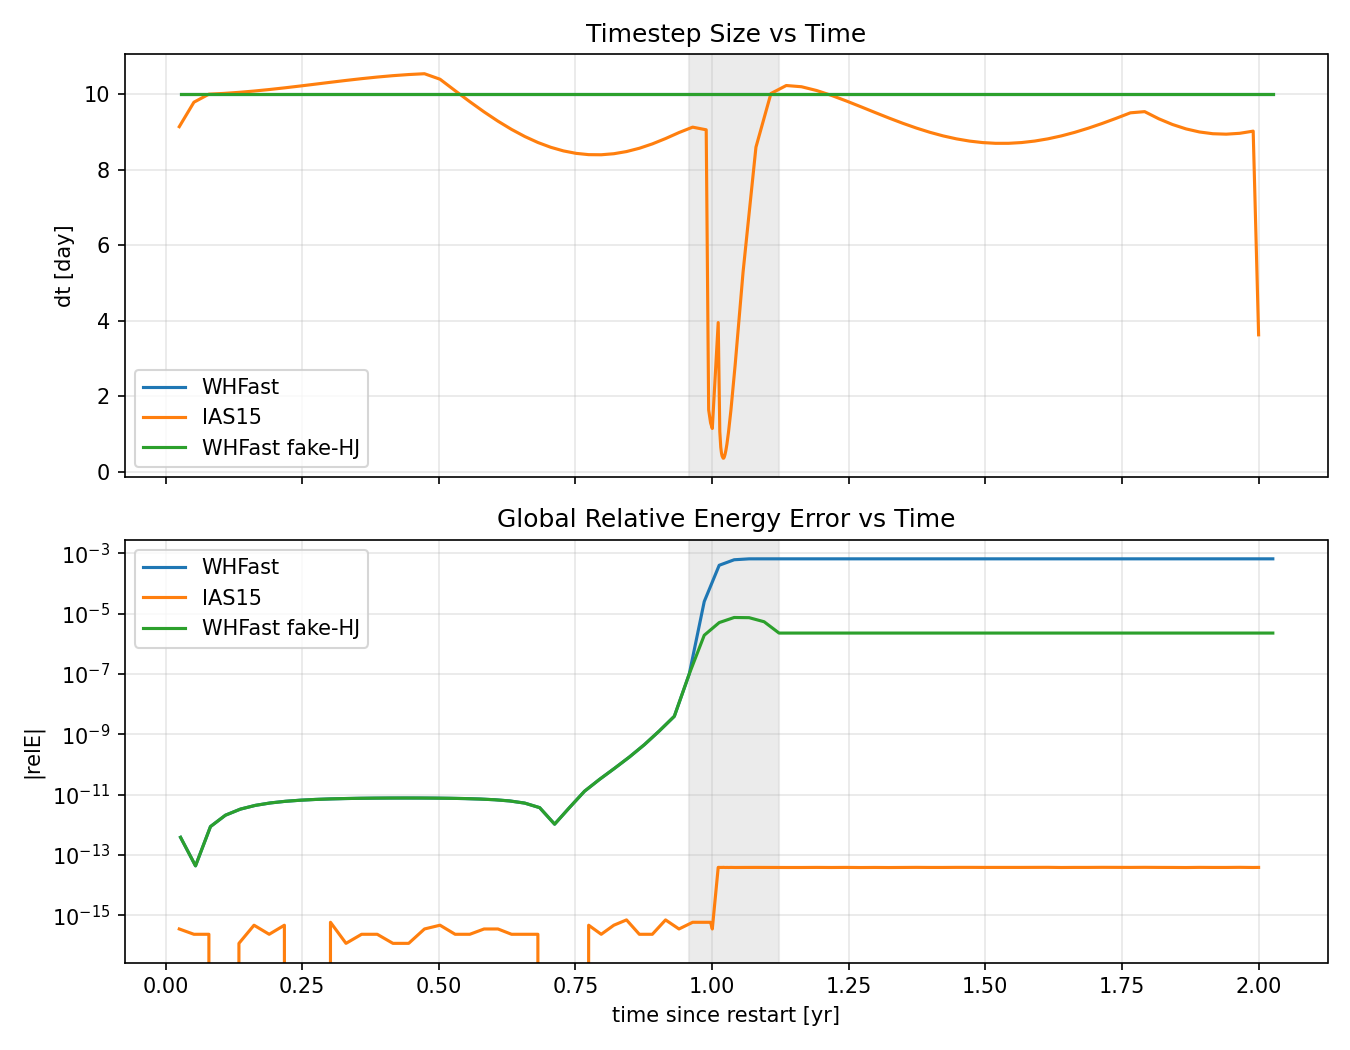
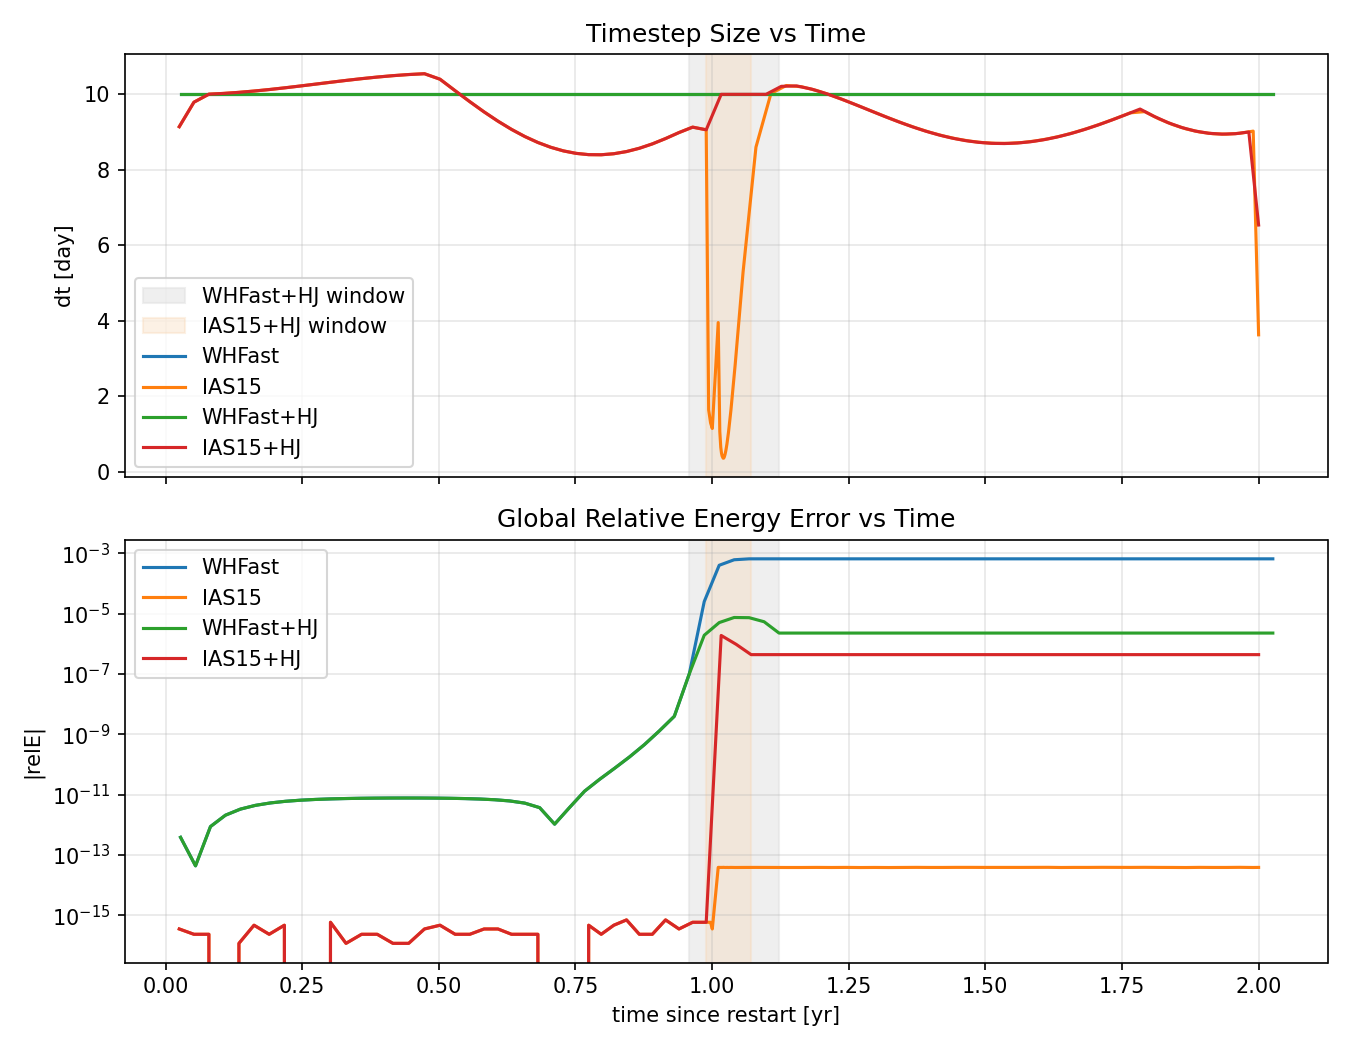
IAS15 + HJ added

diff --git a/examples/apophis_3body/run_saved_snapshot_compare.py b/examples/apophis_3body/run_saved_snapshot_compare.py
@@ -1,6 +1,13 @@
 #!/usr/bin/env python3
 """Compare WHFast and IAS15 from the saved 1-year-before-encounter snapshot."""
 
+# to run
+#  python -u run_saved_snapshot_compare.py \
+#   --time-years \
+#   --fake-hj-switch-start-yr 0.95 \
+#   --fake-hj-switch-end-yr 1.1 \
+#   --hybrid-switch-start-yr 0.98 \
+#   --hybrid-switch-end-yr 1.05
 from __future__ import annotations
 
 import argparse
@@ -15,7 +22,6 @@ SCRIPT_DIR = Path(__file__).resolve().parent
 REPO_ROOT = SCRIPT_DIR.parents[1]
 sys.path.insert(0, str(REPO_ROOT))
 
-# Keep matplotlib cache writes inside the repo workspace for portability.
 os.environ.setdefault("MPLCONFIGDIR", str(SCRIPT_DIR / ".mplconfig"))
 
 suffix = sysconfig.get_config_var("EXT_SUFFIX") or ".so"
@@ -45,6 +51,7 @@ def clone_sim_with_order(
     """Rebuild a simulation from the current inertial state with a new particle order."""
     new_sim = rebound.Simulation()
     new_sim.t = source_sim.t
+    new_sim.dt = source_sim.dt
     new_sim.softening = source_sim.softening
     new_sim.testparticle_type = source_sim.testparticle_type
     for key in order:
@@ -225,8 +232,100 @@ def run_fake_hj_window_case(
     }
 
 
-def switch_time_for_plot(summary: dict[str, float], key: str, time_years: bool) -> float:
+def run_ias15_whfast_fake_hj_case(
+    base_sim: rebound.Simulation,
+    output_csv: Path,
+    duration_days: float,
+    whfast_dt: float,
+    switch_start_yr: float,
+    switch_end_yr: float,
+) -> dict[str, float]:
+    """Run IAS15, switch to WHFast+HJ inside the window, then return to IAS15."""
+    t_start = base_sim.t
+    t_stop = t_start + duration_days
+    switch_start = t_start + switch_start_yr * YEAR_DAYS
+    switch_end = t_start + switch_end_yr * YEAR_DAYS
+
+    if not (t_start <= switch_start < switch_end <= t_stop):
+        raise ValueError(
+            "Switch window must satisfy start <= switch_start < switch_end <= stop. "
+            f"Got start={switch_start_yr} yr, end={switch_end_yr} yr for duration={duration_days / YEAR_DAYS} yr."
+        )
+
+    sim = prepare_sim(base_sim, "ias15", whfast_dt)
+    e_initial = sim.energy()
+    step_count = 0
+    max_abs_rel_e = 0.0
+    current_integrator = "ias15"
+    current_order = STANDARD_ORDER
+    current_order_name = STANDARD_ORDER_NAME
+    actual_switch_start = None
+    actual_switch_end = None
+
+    with output_csv.open("w", newline="") as fh:
+        writer = csv.writer(fh)
+        writer.writerow(["step", "t", "t_rel", "dt", "relE", "mode", "ordering"])
+
+        while sim.t < t_stop:
+            desired_integrator = "ias15"
+            desired_order = STANDARD_ORDER
+            desired_order_name = STANDARD_ORDER_NAME
+            if switch_start <= sim.t < switch_end:
+                desired_integrator = "whfast"
+                desired_order = FAKE_HJ_ORDER
+                desired_order_name = FAKE_HJ_ORDER_NAME
+
+            if desired_integrator != current_integrator or desired_order != current_order:
+                sim = clone_sim_with_order(sim, desired_order, desired_integrator, whfast_dt)
+                current_integrator = desired_integrator
+                current_order = desired_order
+                current_order_name = desired_order_name
+                if desired_integrator == "whfast" and actual_switch_start is None:
+                    actual_switch_start = sim.t
+                if desired_integrator == "ias15" and actual_switch_end is None and sim.t >= switch_end:
+                    actual_switch_end = sim.t
+
+            remaining = t_stop - sim.t
+            if remaining <= 0.0:
+                break
+
+            if current_integrator == "whfast":
+                sim.dt = whfast_dt
+            elif sim.dt > remaining:
+                sim.dt = remaining
+
+            sim.step()
+            step_count += 1
+            rel_e = (sim.energy() - e_initial) / e_initial
+            max_abs_rel_e = max(max_abs_rel_e, abs(rel_e))
+            writer.writerow(
+                [
+                    step_count,
+                    f"{sim.t:.16e}",
+                    f"{(sim.t - t_start):.16e}",
+                    f"{sim.dt_last_done:.16e}",
+                    f"{rel_e:.16e}",
+                    current_integrator,
+                    current_order_name,
+                ]
+            )
+
+    e_final = sim.energy()
+    return {
+        "t_start": t_start,
+        "t_stop": sim.t,
+        "steps_taken": float(step_count),
+        "final_relE": abs((e_final - e_initial) / e_initial),
+        "max_relE": max_abs_rel_e,
+        "switch_start_actual": actual_switch_start,
+        "switch_end_actual": actual_switch_end,
+    }
+
+
+def switch_time_for_plot(summary: dict[str, float], key: str, time_years: bool) -> float | None:
     """Convert an absolute switch time in the summary to plot coordinates."""
+    if summary.get(key) is None:
+        return None
     offset = summary[key] - summary["t_start"]
     if time_years:
         return offset / YEAR_DAYS
@@ -253,39 +352,57 @@ def make_plot(
     whfast_csv: Path,
     ias15_csv: Path,
     fake_hj_csv: Path,
+    hybrid_csv: Path,
     output_png: Path,
     time_years: bool,
-    shade_start: float,
-    shade_end: float,
+    fake_hj_shade_start: float | None,
+    fake_hj_shade_end: float | None,
+    hybrid_shade_start: float | None,
+    hybrid_shade_end: float | None,
 ) -> None:
     t_w, dt_w, e_w = read_diag_csv(whfast_csv)
     t_i, dt_i, e_i = read_diag_csv(ias15_csv)
     t_h, dt_h, e_h = read_diag_csv(fake_hj_csv)
+    t_m, dt_m, e_m = read_diag_csv(hybrid_csv)
 
     if time_years:
         scale = 1.0 / YEAR_DAYS
         t_w = [x * scale for x in t_w]
         t_i = [x * scale for x in t_i]
         t_h = [x * scale for x in t_h]
+        t_m = [x * scale for x in t_m]
         xlabel = "time since restart [yr]"
     else:
         xlabel = "time since restart [day]"
 
     fig, (ax1, ax2) = plt.subplots(2, 1, figsize=(9, 7), sharex=True)
 
-    ax1.axvspan(shade_start, shade_end, color="0.85", alpha=0.5)
+    if fake_hj_shade_start is not None and fake_hj_shade_end is not None:
+        ax1.axvspan(fake_hj_shade_start, fake_hj_shade_end, color="0.88", alpha=0.5, label="WHFast+HJ window")
+        ax2.axvspan(fake_hj_shade_start, fake_hj_shade_end, color="0.88", alpha=0.5)
+    if hybrid_shade_start is not None and hybrid_shade_end is not None:
+        ax1.axvspan(
+            hybrid_shade_start,
+            hybrid_shade_end,
+            color="#f7d7b5",
+            alpha=0.35,
+            label="IAS15+HJ window",
+        )
+        ax2.axvspan(hybrid_shade_start, hybrid_shade_end, color="#f7d7b5", alpha=0.35)
+
     ax1.plot(t_w, dt_w, label="WHFast", lw=1.5)
     ax1.plot(t_i, dt_i, label="IAS15", lw=1.5)
-    ax1.plot(t_h, dt_h, label="WHFast fake-HJ", lw=1.5)
+    ax1.plot(t_h, dt_h, label="WHFast+HJ", lw=1.5)
+    ax1.plot(t_m, dt_m, label="IAS15+HJ", lw=1.5)
     ax1.set_ylabel("dt [day]")
     ax1.set_title("Timestep Size vs Time")
     ax1.grid(True, alpha=0.3)
     ax1.legend()
 
-    ax2.axvspan(shade_start, shade_end, color="0.85", alpha=0.5)
     ax2.plot(t_w, e_w, label="WHFast", lw=1.5)
     ax2.plot(t_i, e_i, label="IAS15", lw=1.5)
-    ax2.plot(t_h, e_h, label="WHFast fake-HJ", lw=1.5)
+    ax2.plot(t_h, e_h, label="WHFast+HJ", lw=1.5)
+    ax2.plot(t_m, e_m, label="IAS15+HJ", lw=1.5)
     ax2.set_yscale("log")
     ax2.set_xlabel(xlabel)
     ax2.set_ylabel("|relE|")
@@ -320,18 +437,31 @@ def main() -> None:
     parser.add_argument("--whfast-csv", type=Path, default=SCRIPT_DIR / "whfast_python.csv")
     parser.add_argument("--ias15-csv", type=Path, default=SCRIPT_DIR / "ias15_python.csv")
     parser.add_argument("--fake-hj-csv", type=Path, default=SCRIPT_DIR / "whfast_fake_hj_python.csv")
+    parser.add_argument("--hybrid-csv", type=Path, default=SCRIPT_DIR / "ias15_whfast_fake_hj_python.csv")
     parser.add_argument("--plot", type=Path, default=SCRIPT_DIR / "integrator_compare_python.png")
     parser.add_argument(
-        "--switch-start-yr",
+        "--fake-hj-switch-start-yr",
         type=float,
-        default=0.7,
-        help="Time since restart to switch into fake hierarchical Jacobi ordering.",
+        default=0.95,
+        help="Time since restart to switch WHFast into fake hierarchical Jacobi ordering.",
     )
     parser.add_argument(
-        "--switch-end-yr",
+        "--fake-hj-switch-end-yr",
         type=float,
         default=1.1,
-        help="Time since restart to switch back to the standard ordering.",
+        help="Time since restart to switch WHFast+HJ back to the standard ordering.",
+    )
+    parser.add_argument(
+        "--hybrid-switch-start-yr",
+        type=float,
+        default=0.98,
+        help="Time since restart to switch IAS15+HJ into WHFast+HJ mode.",
+    )
+    parser.add_argument(
+        "--hybrid-switch-end-yr",
+        type=float,
+        default=1.05,
+        help="Time since restart to switch the IAS15/WHFast hybrid back to IAS15.",
     )
     parser.add_argument(
         "--time-years",
@@ -347,6 +477,7 @@ def main() -> None:
     whfast_csv = args.whfast_csv.resolve()
     ias15_csv = args.ias15_csv.resolve()
     fake_hj_csv = args.fake_hj_csv.resolve()
+    hybrid_csv = args.hybrid_csv.resolve()
     plot_path = args.plot.resolve()
 
     base_sim = rebound.Simulation(str(snapshot_path))
@@ -357,7 +488,8 @@ def main() -> None:
     print("Running WHFast from saved snapshot...", flush=True)
     whfast_summary = run_case(base_sim, "whfast", whfast_csv, args.duration_days, args.whfast_dt)
     print(
-        f"Running WHFast fake-HJ window from {args.switch_start_yr:.3f} yr to {args.switch_end_yr:.3f} yr...",
+        "Running WHFast+HJ window from "
+        f"{args.fake_hj_switch_start_yr:.3f} yr to {args.fake_hj_switch_end_yr:.3f} yr...",
         flush=True,
     )
     fake_hj_summary = run_fake_hj_window_case(
@@ -365,8 +497,21 @@ def main() -> None:
         fake_hj_csv,
         args.duration_days,
         args.whfast_dt,
-        args.switch_start_yr,
-        args.switch_end_yr,
+        args.fake_hj_switch_start_yr,
+        args.fake_hj_switch_end_yr,
+    )
+    print(
+        "Running IAS15+HJ "
+        f"from {args.hybrid_switch_start_yr:.3f} yr to {args.hybrid_switch_end_yr:.3f} yr...",
+        flush=True,
+    )
+    hybrid_summary = run_ias15_whfast_fake_hj_case(
+        base_sim,
+        hybrid_csv,
+        args.duration_days,
+        args.whfast_dt,
+        args.hybrid_switch_start_yr,
+        args.hybrid_switch_end_yr,
     )
     print("Running IAS15 from saved snapshot...", flush=True)
     ias15_summary = run_case(base_sim, "ias15", ias15_csv, args.duration_days, args.whfast_dt)
@@ -375,41 +520,61 @@ def main() -> None:
         whfast_csv,
         ias15_csv,
         fake_hj_csv,
+        hybrid_csv,
         plot_path,
         time_years=args.time_years,
-        shade_start=switch_time_for_plot(fake_hj_summary, "switch_start_actual", args.time_years),
-        shade_end=switch_time_for_plot(fake_hj_summary, "switch_end_actual", args.time_years),
+        fake_hj_shade_start=switch_time_for_plot(fake_hj_summary, "switch_start_actual", args.time_years),
+        fake_hj_shade_end=switch_time_for_plot(fake_hj_summary, "switch_end_actual", args.time_years),
+        hybrid_shade_start=switch_time_for_plot(hybrid_summary, "switch_start_actual", args.time_years),
+        hybrid_shade_end=switch_time_for_plot(hybrid_summary, "switch_end_actual", args.time_years),
     )
 
-    print(f"Snapshot: {snapshot_path}")
-    print(
-        f"WHFast: steps={int(whfast_summary['steps_taken'])}, "
-        f"t=[{whfast_summary['t_start']:.6f}, {whfast_summary['t_stop']:.6f}], "
-        f"|relE_final|={whfast_summary['final_relE']:.6e}, "
-        f"|relE|max={whfast_summary['max_relE']:.6e}"
-    )
-    print(
-        f"WHFast fake-HJ: steps={int(fake_hj_summary['steps_taken'])}, "
-        f"t=[{fake_hj_summary['t_start']:.6f}, {fake_hj_summary['t_stop']:.6f}], "
-        f"|relE_final|={fake_hj_summary['final_relE']:.6e}, "
-        f"|relE|max={fake_hj_summary['max_relE']:.6e}"
-    )
-    print(
-        "WHFast fake-HJ actual window: "
-        f"{(fake_hj_summary['switch_start_actual'] - fake_hj_summary['t_start']) / YEAR_DAYS:.6f} yr "
-        f"to {(fake_hj_summary['switch_end_actual'] - fake_hj_summary['t_start']) / YEAR_DAYS:.6f} yr"
-    )
-    print(
-        f"IAS15: steps={int(ias15_summary['steps_taken'])}, "
-        f"t=[{ias15_summary['t_start']:.6f}, {ias15_summary['t_stop']:.6f}], "
-        f"|relE_final|={ias15_summary['final_relE']:.6e}, "
-        f"|relE|max={ias15_summary['max_relE']:.6e}"
-    )
-    print(f"Wrote {whfast_csv}")
-    print(f"Wrote {fake_hj_csv}")
-    print(f"Wrote {ias15_csv}")
-    print(f"Wrote {plot_path}")
+    summary_rows = [
+        ("WHFast", whfast_summary),
+        ("WHFast+HJ", fake_hj_summary),
+        ("IAS15+HJ", hybrid_summary),
+        ("IAS15", ias15_summary),
+    ]
+    window_unit = "yr" if args.time_years else "day"
 
+    def format_window_time(summary: dict[str, float], key: str) -> str:
+        value = switch_time_for_plot(summary, key, args.time_years)
+        if value is None:
+            return "-"
+        return f"{value:.3g}"
 
+    table_rows = [
+        (
+            label,
+            int(summary["steps_taken"]),
+            summary["final_relE"],
+            summary["max_relE"],
+            format_window_time(summary, "switch_start_actual"),
+            format_window_time(summary, "switch_end_actual"),
+        )
+        for label, summary in summary_rows
+    ]
+    method_width = max(len("Method"), *(len(label) for label, _ in summary_rows))
+    hj_start_header = f"HJ_start[{window_unit}]"
+    hj_end_header = f"HJ_end[{window_unit}]"
+    hj_start_width = max(len(hj_start_header), *(len(row[4]) for row in table_rows))
+    hj_end_width = max(len(hj_end_header), *(len(row[5]) for row in table_rows))
+    print(
+        f"{'Method':<{method_width}}  {'steps':>5}  {'|relE_final|':>14}  {'|relE|max':>14}  "
+        f"{hj_start_header:>{hj_start_width}}  {hj_end_header:>{hj_end_width}}"
+    )
+    print(
+        f"{'-' * method_width}  {'-' * 5}  {'-' * 14}  {'-' * 14}  "
+        f"{'-' * hj_start_width}  {'-' * hj_end_width}"
+    )
+    for label, steps, final_rel_e, max_rel_e, hj_start, hj_end in table_rows:
+        print(
+            f"{label:<{method_width}}  "
+            f"{steps:>5d}  "
+            f"{final_rel_e:>14.2e}  "
+            f"{max_rel_e:>14.2e}  "
+            f"{hj_start:>{hj_start_width}}  "
+            f"{hj_end:>{hj_end_width}}"
+        )
 if __name__ == "__main__":
     main()
